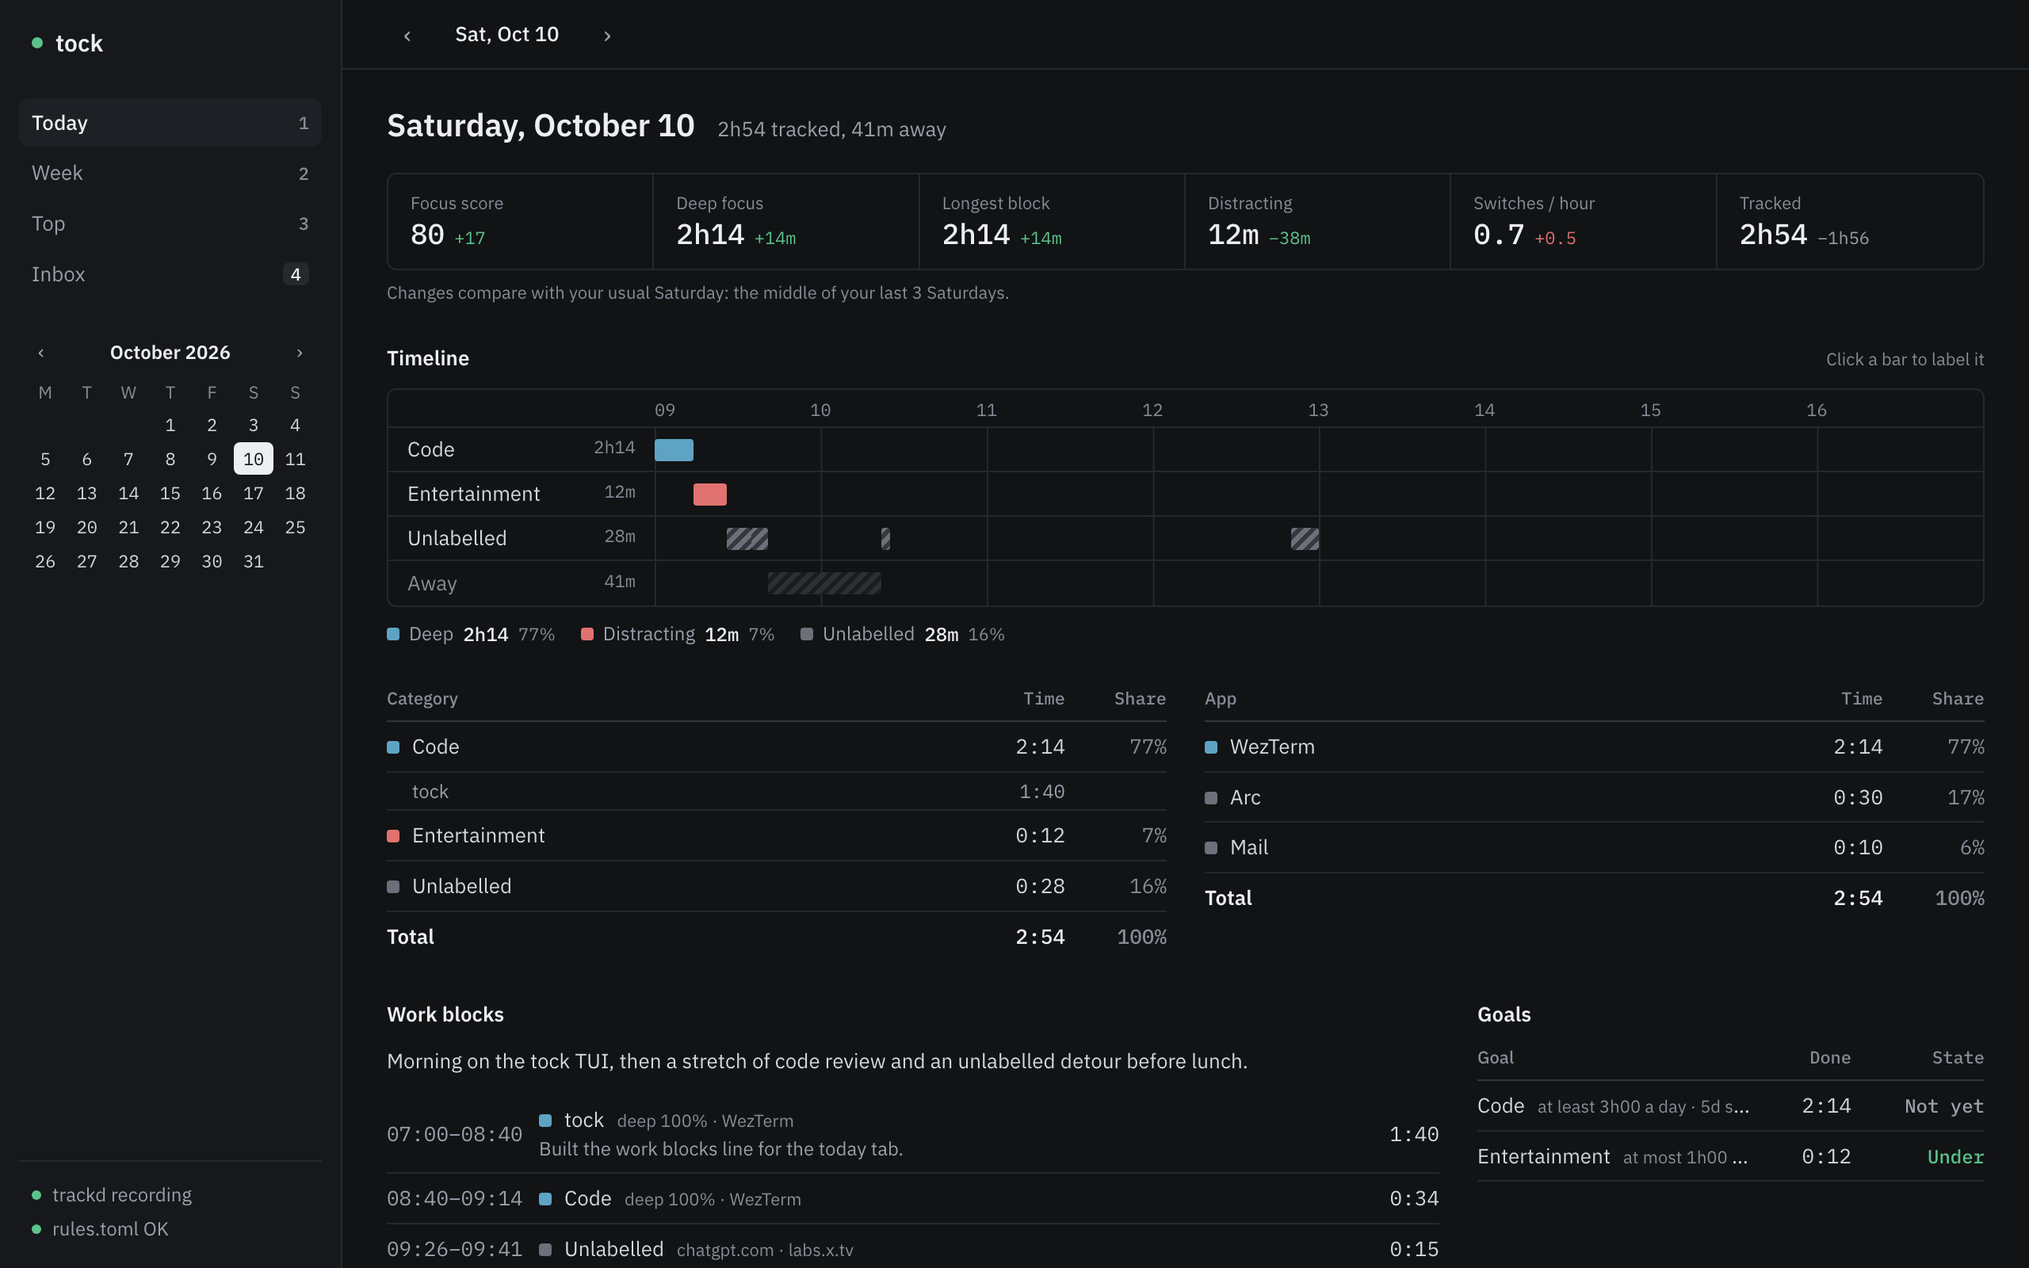
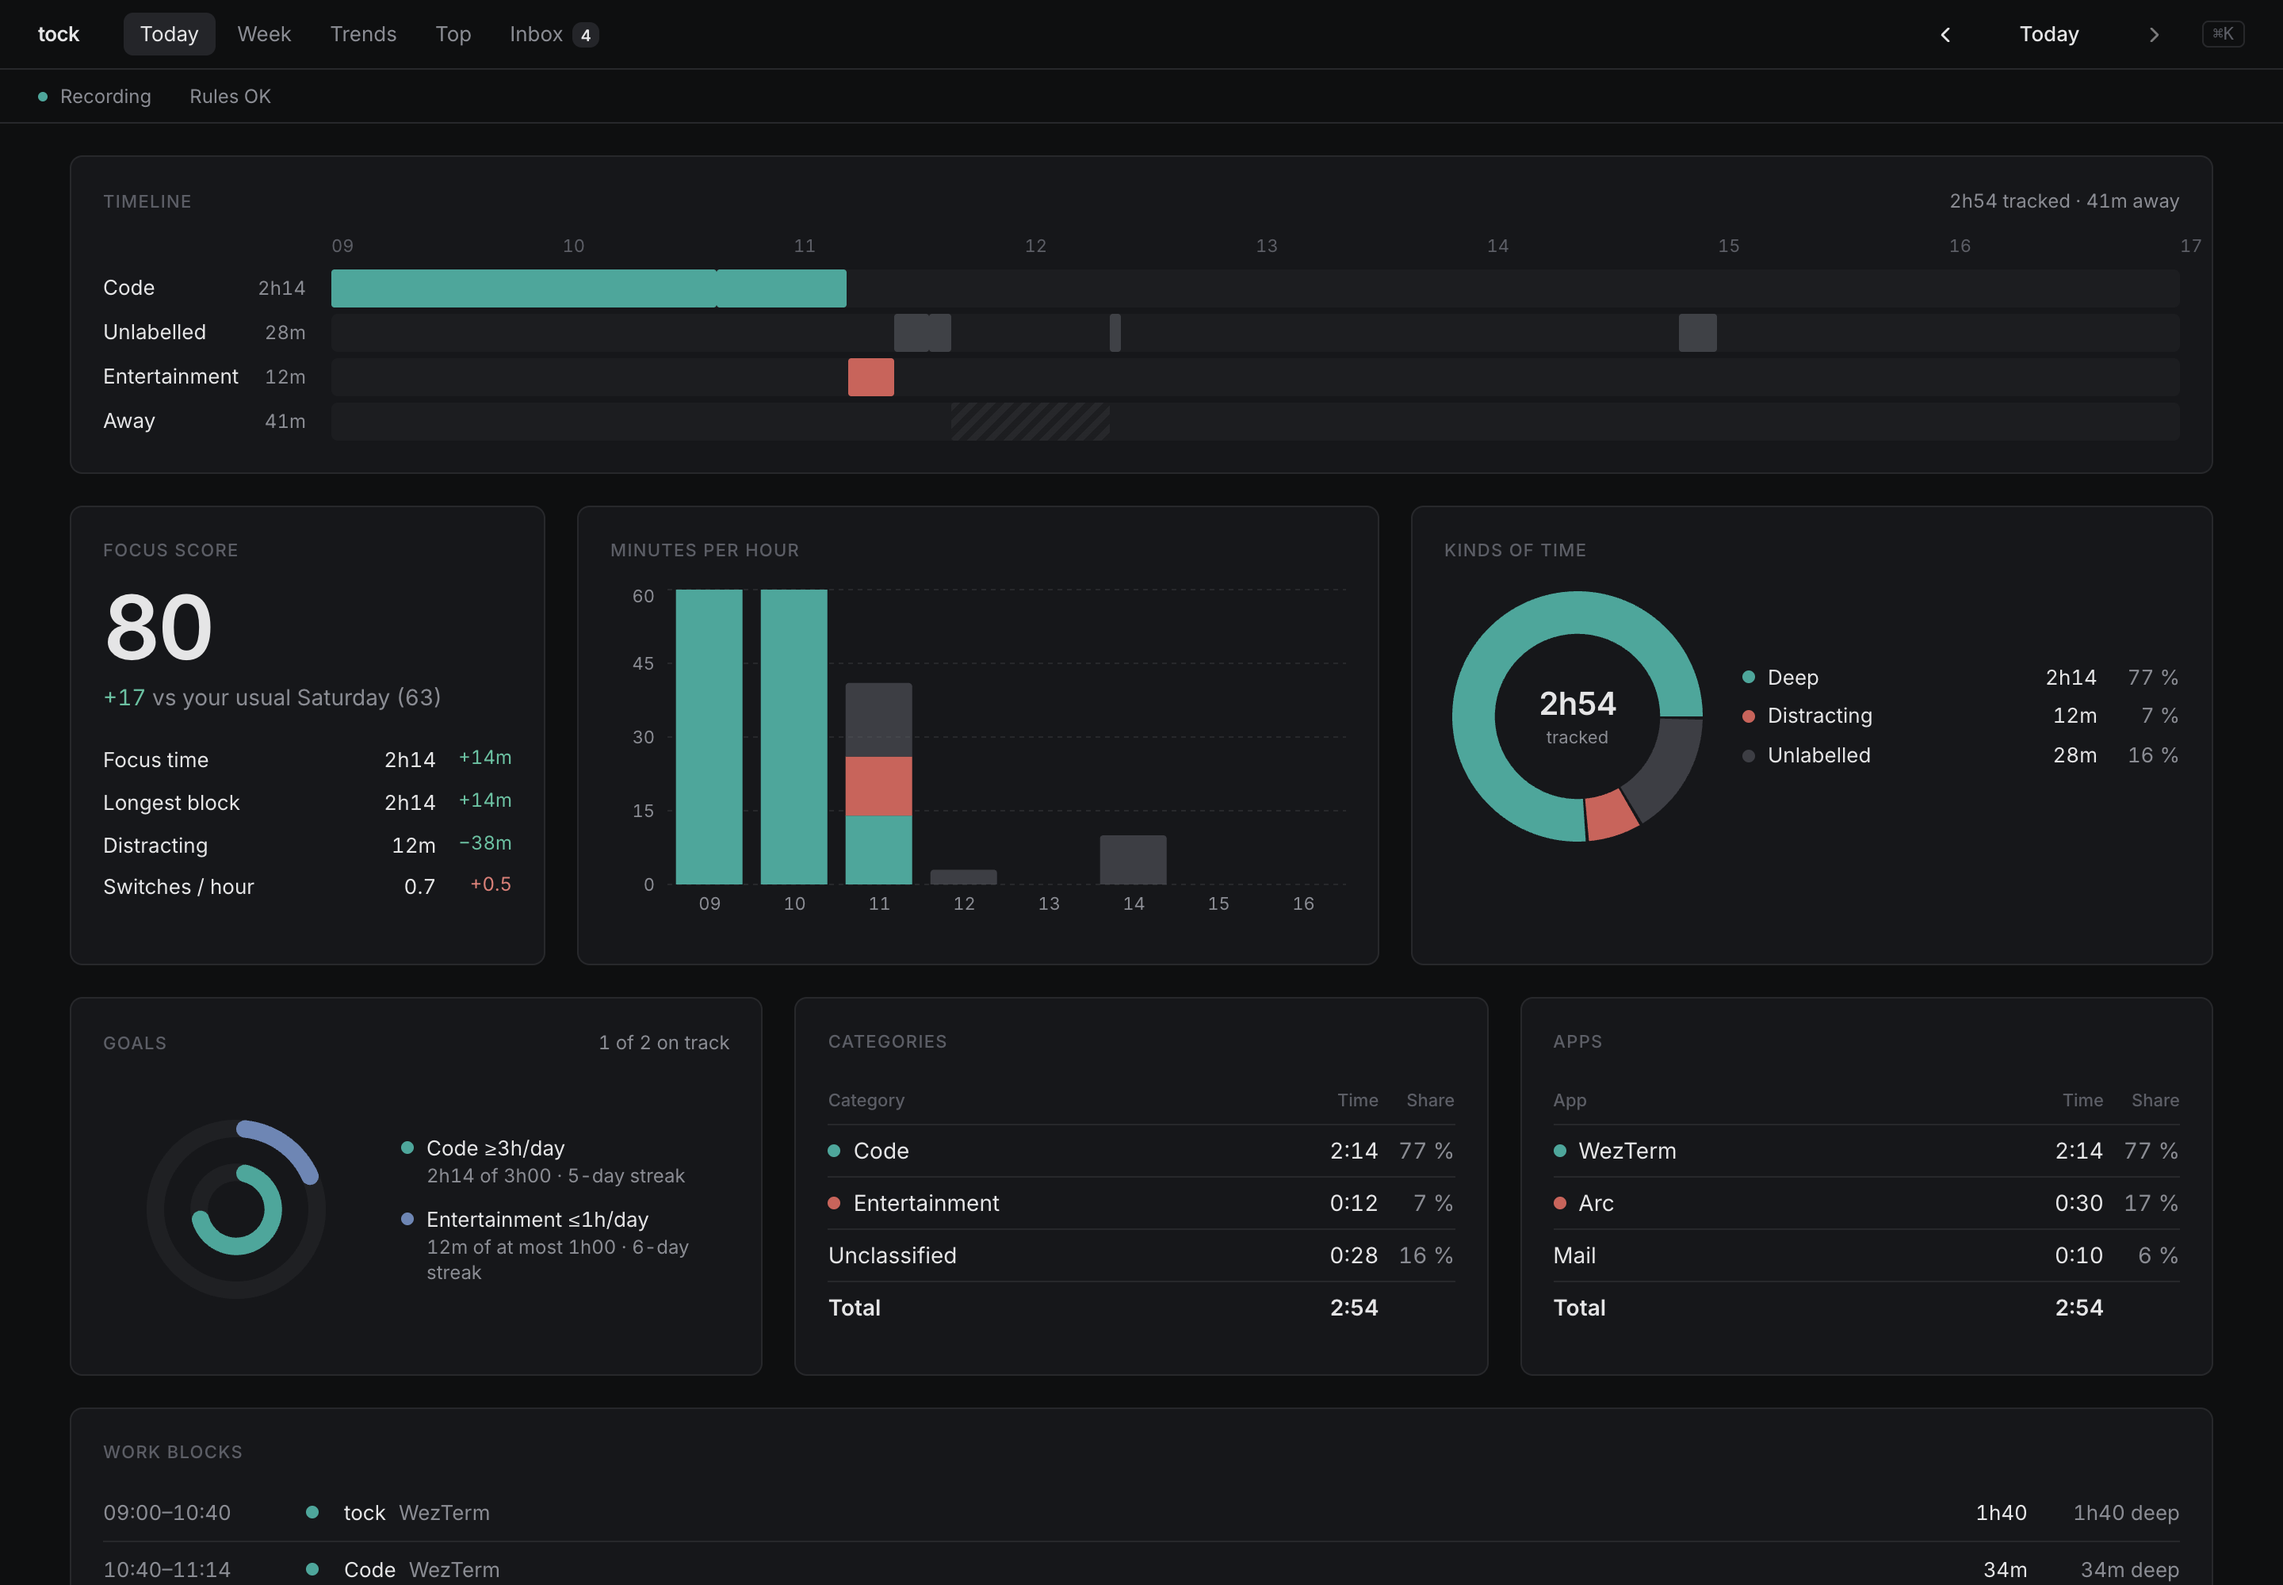
README: new dashboard shots, architecture and design
The screenshots still showed the Ledger dashboard. Adds the week and
trends views, the pieces diagram and a design system card.

diff --git a/README.md b/README.md
@@ -9,8 +9,21 @@ your machine, in one SQLite file.
 
 <picture>
   <source media="(prefers-color-scheme: dark)" srcset="docs/readme/web-dark.png">
-  <img src="docs/readme/web-light.png" width="100%" alt="The tock dashboard for one day: a sidebar with a calendar and trackd's status; the day's numbers (focus score 80, deep focus 2h14, longest block 2h14, 12 minutes distracting, 0.7 switches an hour, 2h54 tracked), each compared with a usual Saturday; a timeline with one row per category; tables of categories and apps with totals; work blocks and goals.">
+  <img src="docs/readme/web-light.png" width="100%" alt="The tock dashboard for one day: a timeline with one row per category; a focus score of 80, 17 above a usual Saturday, with focus time, longest block, distraction and switches; minutes per hour; a donut of the kinds of time; goal rings; tables of categories and apps with totals; work blocks.">
 </picture>
+
+<table>
+  <tr>
+    <td width="50%"><picture>
+      <source media="(prefers-color-scheme: dark)" srcset="docs/readme/web-week-dark.png">
+      <img src="docs/readme/web-week-light.png" alt="The week view: hours per day stacked by kind of time, a donut of the week, the focus score per day against its mean, and a weekday-by-hour heat map of when you focus.">
+    </picture></td>
+    <td width="50%"><picture>
+      <source media="(prefers-color-scheme: dark)" srcset="docs/readme/web-trends-dark.png">
+      <img src="docs/readme/web-trends-light.png" alt="The trends view: the month's tracked time, focus, average score and switches; a calendar shaded by deep time; deep time and focus score per day.">
+    </picture></td>
+  </tr>
+</table>
 
 ## How it works
 
@@ -29,6 +42,11 @@ your machine, in one SQLite file.
 The day gets a focus score out of 100 from deep time, long unbroken blocks
 and few switches, minus distraction. Every number is compared with your
 usual same weekday.
+
+<img src="docs/assets/diagrams/pieces.svg" width="100%" alt="trackd takes events from the desktop (NSWorkspace, the Accessibility API, AppleScript, or Hyprland's socket) and writes spans to tock.db. tock and tockbar read tock.db and label it with rules.toml, learned.toml and config.toml. tockbar runs tock web as a child for the dashboard window. Only tock reaches the internet, for Claude and Slack, when you turn them on.">
+
+How a span gets its label, how the notch is fed and how the install
+signs the apps are drawn in [Architecture](docs/architecture.md).
 
 Optional, and off until you turn them on: focus sessions that call you back
 when you drift, goals, work hours, a calendar view, week reports, billing,
@@ -104,7 +122,7 @@ the same `brew install` and `tock setup` as on macOS. Without Go, download
 against `SHA256SUMS`, and run:
 
 ```sh
-tar xzf tock-v5.0.0-linux-amd64.tar.gz && cd tock-v5.0.0-linux-amd64
+tar xzf tock-v5.2.0-linux-amd64.tar.gz && cd tock-v5.2.0-linux-amd64
 install -m 755 trackd tock ~/.local/bin/ && ~/.local/bin/trackd install && tock init
 ```
 
@@ -129,11 +147,19 @@ In the terminal UI, `?` lists the keys and `:` opens a command palette.
 
 <img src="docs/readme/tui.webp" width="100%" alt="The tock terminal UI on a demo day: the today tab, labelling a block, the score breakdown, a focus session, the command palette and the inbox.">
 
+## Design
+
+<img src="docs/assets/diagrams/design.svg" width="100%" alt="The tock design system: colour means a kind of time (deep teal, shallow blue, browsing mauve, neutral grey, distracting brick, unlabelled faint grey, away hatched); near-black and white neutrals with ink as the only accent; Inter for everything with tabular figures; 2, 6 and 8 px corners.">
+
+The dashboard, the terminal UI, the menu bar and the notch share one set of
+colours: colour only ever means a kind of time. [DESIGN.md](DESIGN.md) has
+the tokens, the type scale, the components and the motion rules.
+
 ## Documentation
 
 - [confuserdotcom.github.io/tock](https://confuserdotcom.github.io/tock/): the guide and the architecture as a site.
 - [Guide](docs/guide.md): every command, file and feature.
-- [Architecture](docs/architecture.md): how the pieces fit, and what they cost.
+- [Architecture](docs/architecture.md): how the pieces fit, with diagrams, and what they cost.
 - [CHANGELOG](CHANGELOG.md): what changed in each release.
 - [DESIGN.md](DESIGN.md): the design system for the dashboard, TUI and menu.
 
